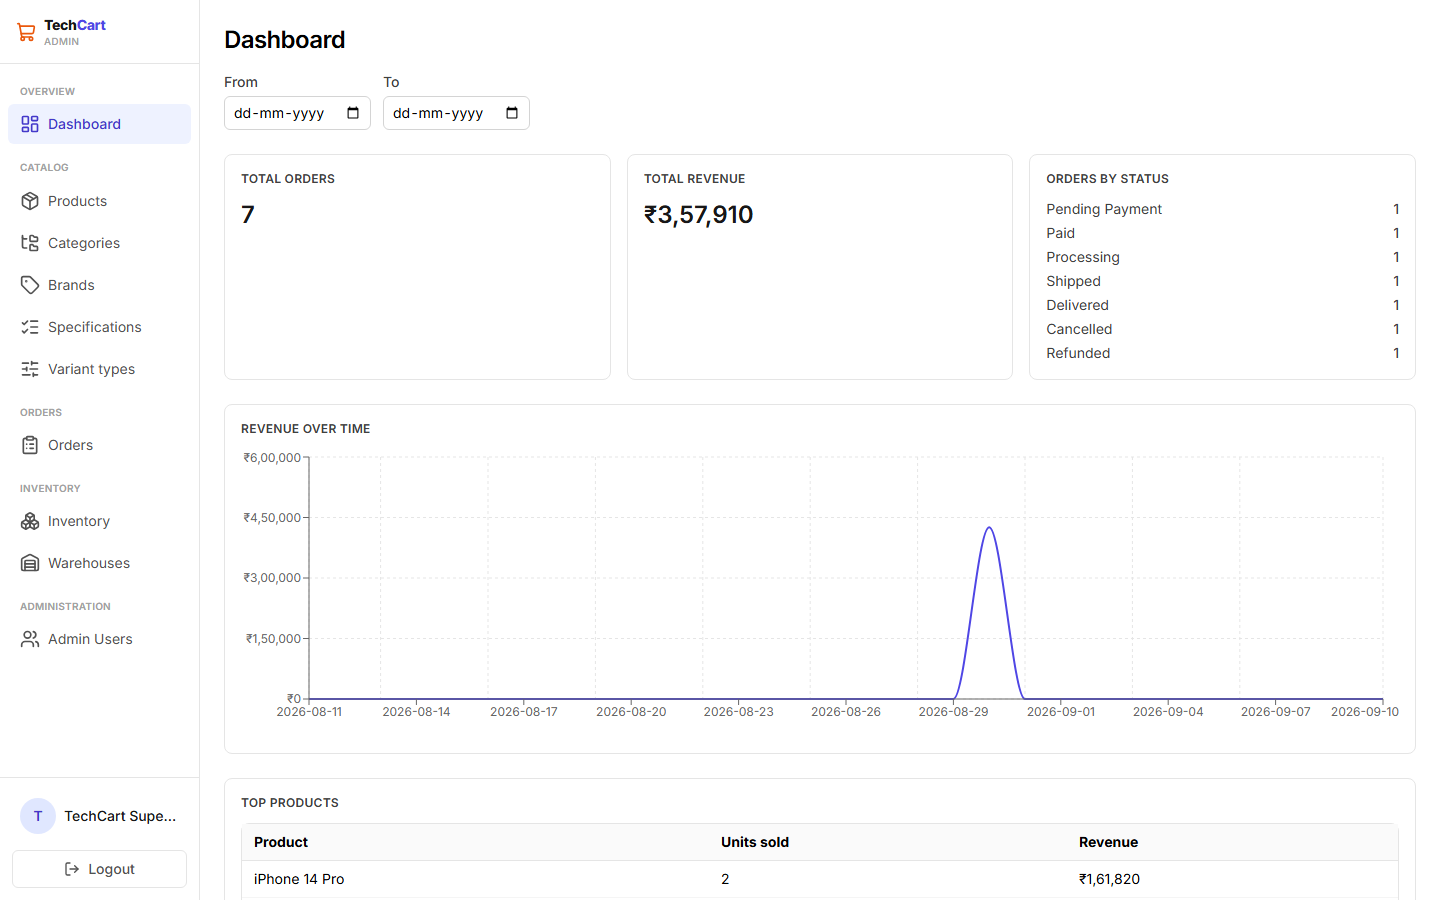
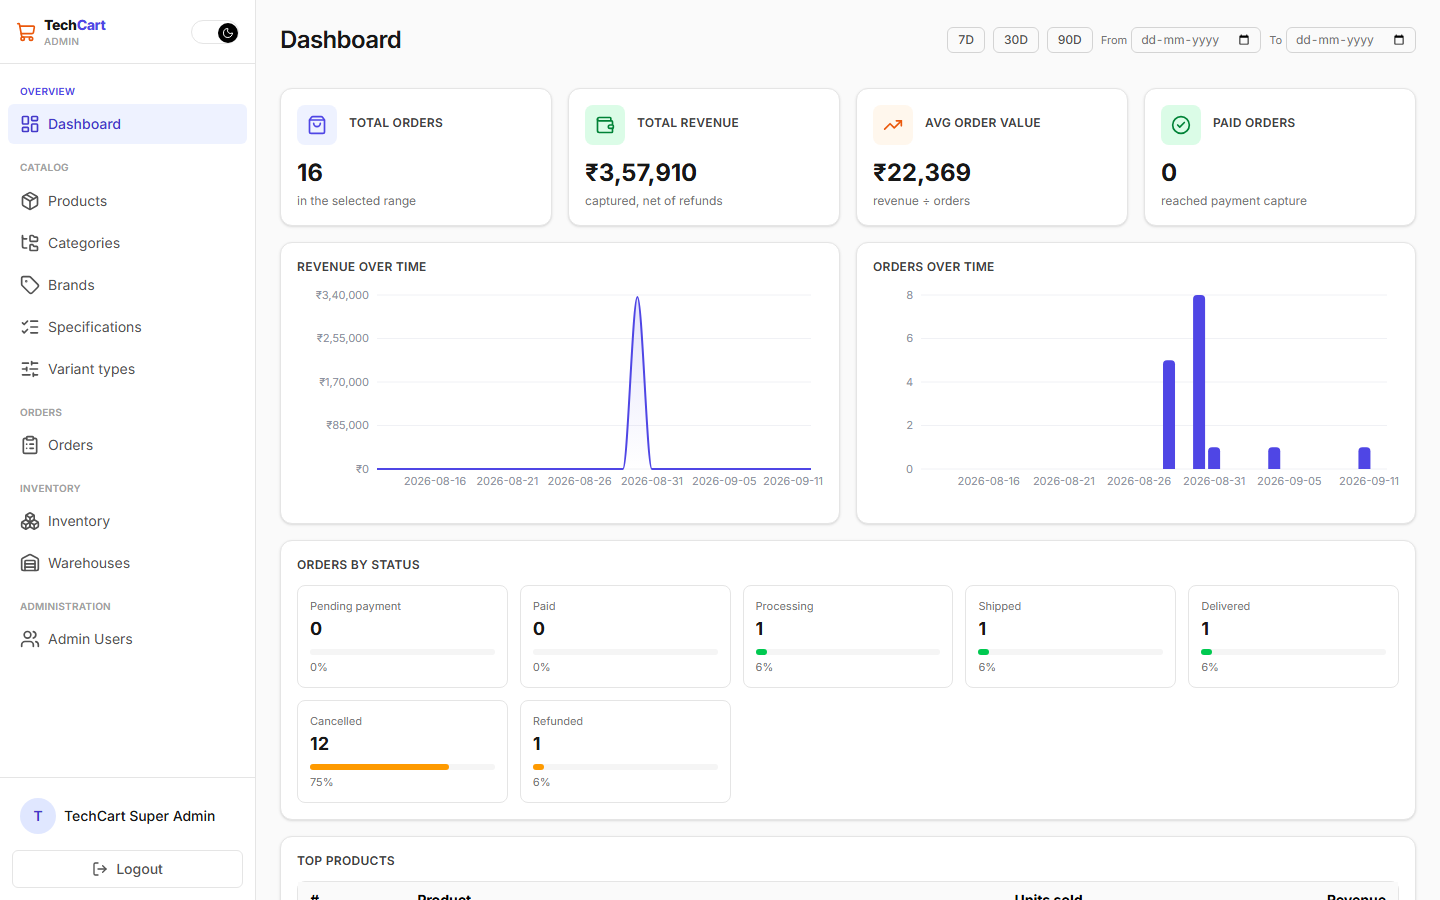
docs: refresh admin sign-in and dashboard screenshots (PR #373, #375)
01-sign-in-password.png, 02-sign-in-otp.png, 05-dashboard-sales.png, and
05b-dashboard-catalog.png predated the sign-in redesign (PR #375) and
dashboard redesign (PR #373) and were never re-captured after either
shipped. Re-shot against the live deployment with the same throwaway
sign-in + screenshot approach as the sidebar refresh; screenshots/README.md
generalizes that note to cover this and future live-deployment touch-ups.

diff --git a/docs/user-manuals/screenshots/README.md b/docs/user-manuals/screenshots/README.md
@@ -96,14 +96,18 @@ servers.
 
 - **Images** — the local dataset the admin-app screenshots use has grey placeholder
   images. The live storefront (buyer-app screenshots) serves real product images.
-- **Sidebar shots are the one exception to "admin-app = local"** — `03-console-layout.png`
-  and `04-sidebar-mobile-drawer.png` were refreshed against the live deployment
-  (`https://tech-cart-admin-app.vercel.app`) after the dark-mode PR (#377) widened the
-  sidebar and moved the theme toggle into its header row, using the same
-  `admin@techcart.com` / `superAdmin123` super-admin and fixed `123456` OTP. No
-  `capture.mjs` change was needed — a small throwaway script did the sign-in + two
-  shots and was discarded; re-run the same way (sign in, screenshot `/`, open the
-  mobile drawer, screenshot again) if the sidebar chrome changes again.
+- **Some shots are refreshed against the live deployment as an exception to
+  "admin-app = local"**, when re-shooting against production is faster/lower-risk
+  than standing up a local backend for a small, read-only set of screens — always
+  the same `admin@techcart.com` / `superAdmin123` super-admin (or
+  `catalog-manager@example.com` / `TechCart@Dev123`) and the fixed `123456` OTP,
+  against `https://tech-cart-admin-app.vercel.app`, via a small throwaway script
+  (sign in, navigate, screenshot) that's discarded afterwards — no `capture.mjs`
+  change needed. So far: `03-console-layout.png` / `04-sidebar-mobile-drawer.png`
+  (dark-mode PR #377 widened the sidebar and moved the theme toggle into its header
+  row) and `01-sign-in-password.png` / `02-sign-in-otp.png` / `05-dashboard-sales.png`
+  / `05b-dashboard-catalog.png` (sign-in redesign PR #375, dashboard redesign PR #373
+  — both predated this manual and were never captured after their own redesigns).
 - **Razorpay** — `19-checkout-payment.png` shows the real Razorpay Checkout overlay
   (Test Mode) when test keys are configured; without them the step lands on its
   "Retry payment" state instead. Either is a valid screenshot for the manual.
